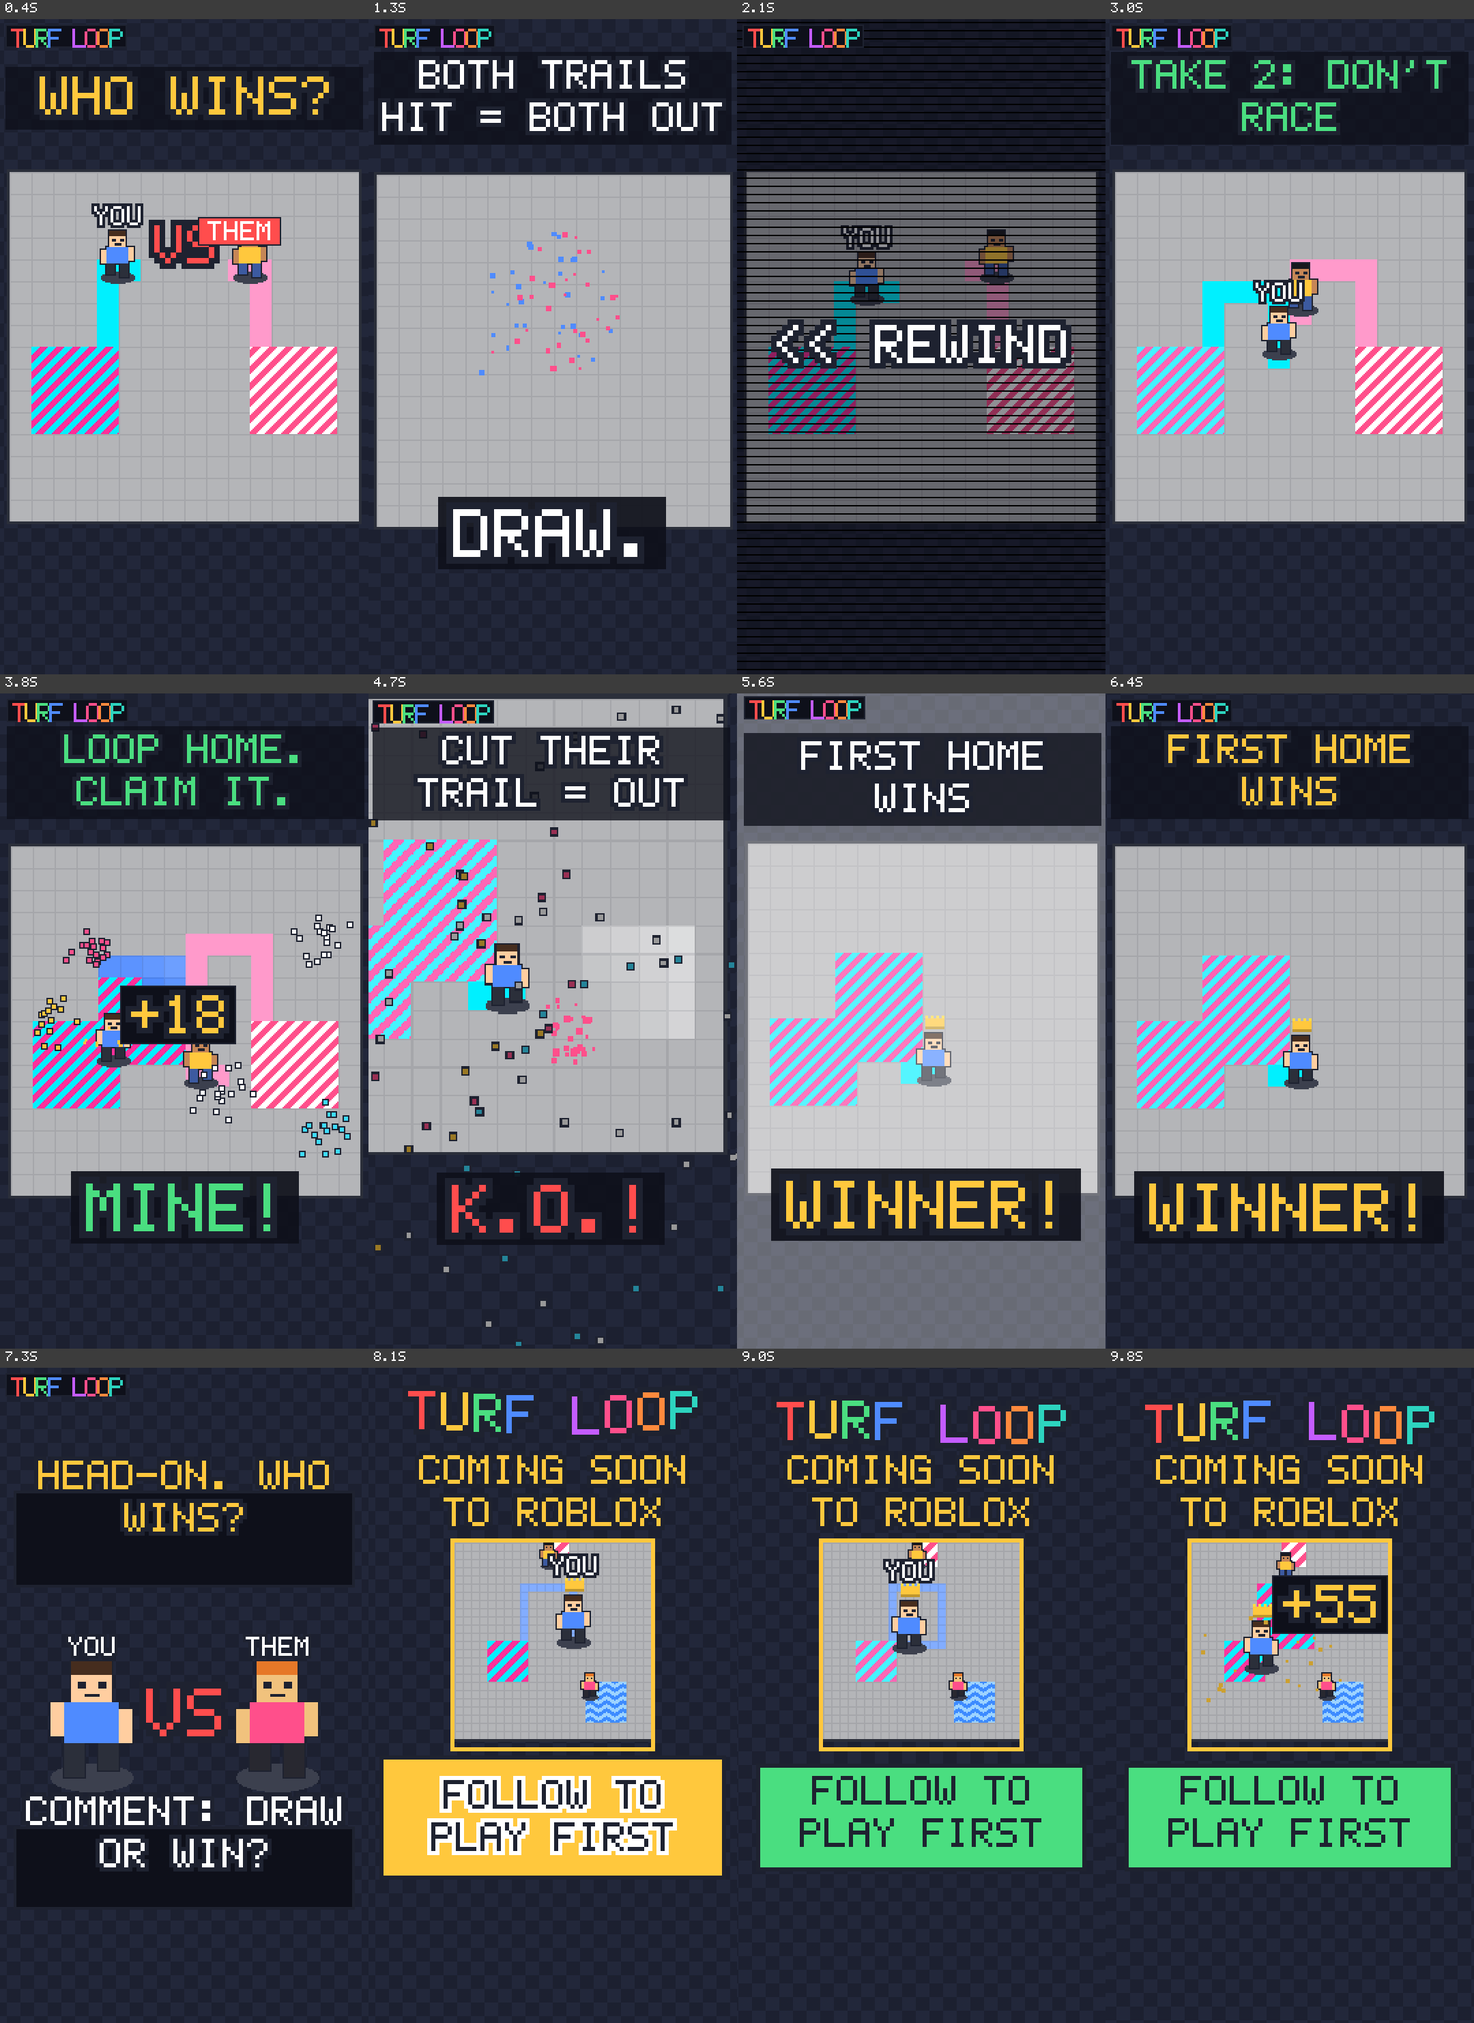
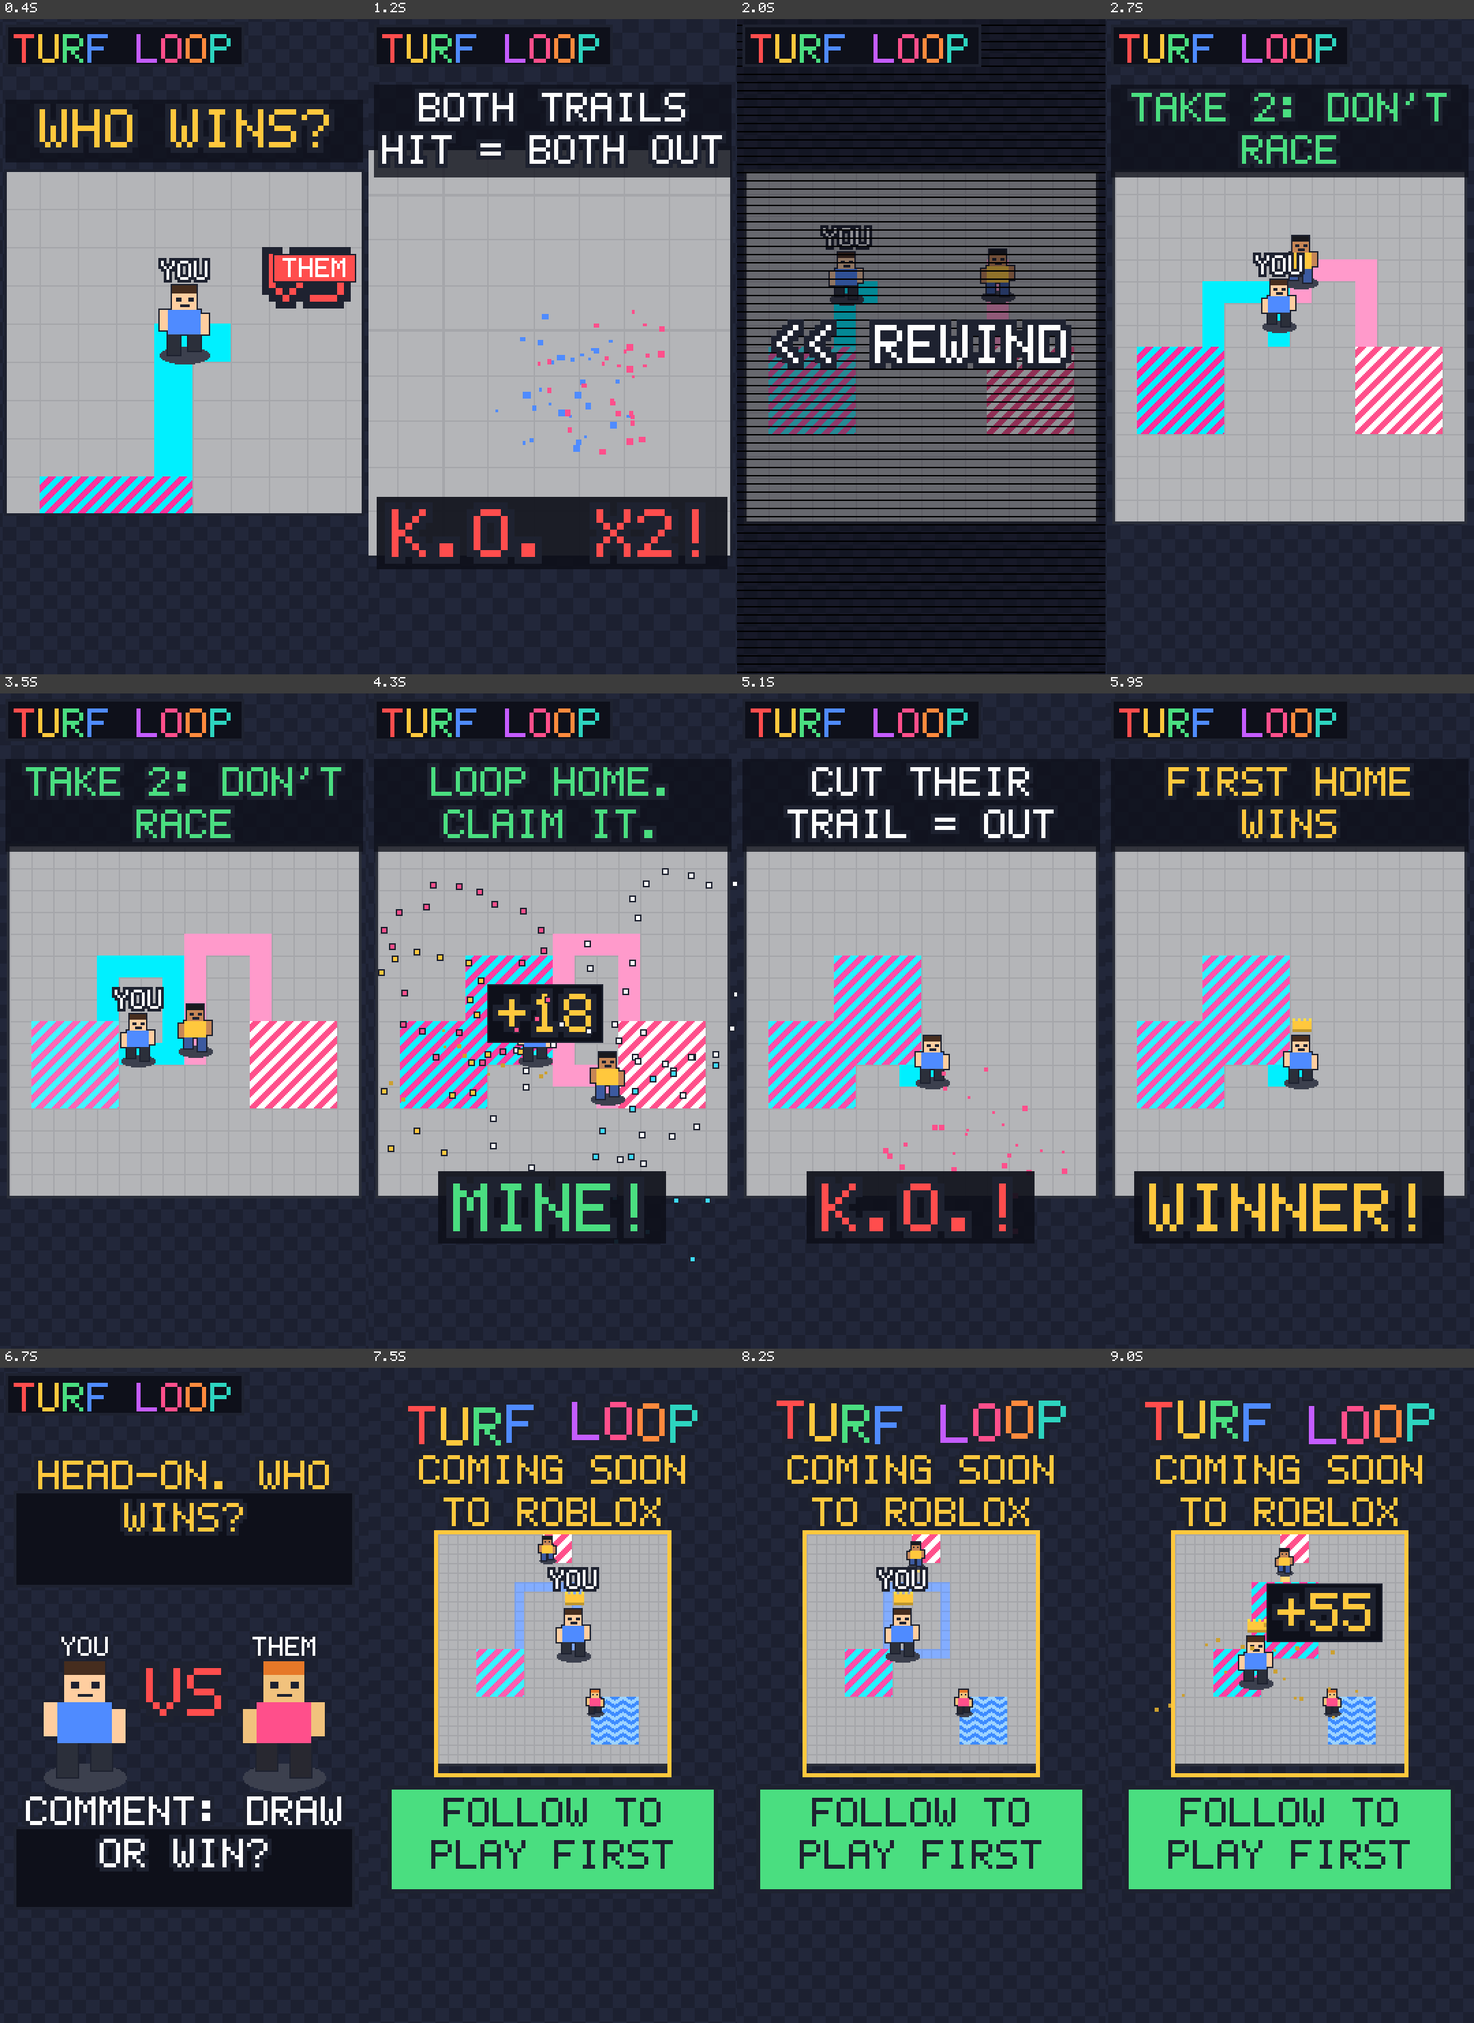
Turf Loop shorts: s04 parked, s05/s06 reworked, shared brand tag and captions

diff --git a/tools/video/hype.py b/tools/video/hype.py
@@ -28,6 +28,15 @@ TRAILS = [("RAINBOW STREAK", "#FF4D4D", "#4F8BFF", "stripes"), ("STARDUST", "#FF
 EFFECTS = [("FIREWORKS", "#FF4F8B", "#FFC83D"), ("BUBBLES", "#7CC4FF", "#FFFFFF"),
            ("LIGHTNING", "#FFE88A", "#4F8BFF"), ("HEARTS", "#FF4F8B", "#FFB8E0")]
 T = 12  # pattern tile size in canvas pixels
+_caption = Video.caption
+
+
+def _caption_low(self, b0, b1, text, y=58, **k):
+    """graders: captions sit in the top platform UI zone; push them down about 100 px at 1080 wide."""
+    return _caption(self, b0, b1, text, y=y + 24, **k)
+
+
+Video.caption = _caption_low
 
 
 def tile(a, b, pattern):
@@ -625,14 +634,14 @@ def sk(name_list, name):
 
 
 def brand_tag(v, b0, b1):
-    """Corner TURF LOOP tag from frame 0 (graders: brand missing until the end card)."""
+    """Corner TURF LOOP tag from frame 0, 2x size (round 7: graders said it was tiny)."""
     def fn(img, t):
         d = ImageDraw.Draw(img)
-        d.rectangle((4, 4, 92, 20), fill=(14, 16, 26), outline=DARK)
+        d.rectangle((4, 4, 4 + 9 * 18 + 12, 34), fill=(14, 16, 26), outline=DARK, width=2)
         cols = [PLAYERS[j] for j in (0, 2, 4, 7, 0, 9, 11, 1, 5)]
         for i, ch in enumerate("TURF LOOP"):
-            tim = text_img(ch, 2, cols[i], None)
-            img.paste(tim, (8 + i * 9, 7), tim)
+            tim = text_img(ch, 3, cols[i], None)
+            img.paste(tim, (10 + i * 18, 11), tim)
 
     v.overlay(b0, b1, fn)
 
@@ -643,7 +652,7 @@ def avatar_end(v, b0, b1, skin=("#FF2E9A", "#00F0FF", "stripes", "pulse"), line=
     brand_tag(v, 0, b0)
     dt = v.spb / 3
     ar = demo24(dt)
-    CP6, X6, Y6 = 6, 63, 128
+    CP6, X6, Y6 = 7, 51, 122
     skins = {1: skin_of(skin), 2: sk(RARES, "CANDY STRIPE"), 3: sk(RARES, "OCEAN WAVES")}
     mm = match_scene(v, ar, X6, Y6, CP6, skins, None, hero=1, sim=lambda tl: tl + 20 * dt, scale=1, hero_scale=2, kozoom=False,
                      kings=lambda tg: (1,))
@@ -657,8 +666,8 @@ def avatar_end(v, b0, b1, skin=("#FF2E9A", "#00F0FF", "stripes", "pulse"), line=
         ph = (tl / v.spb) % 1.0
         on = ph < 0.2  # pulse on every beat: button grows and the text flashes white
         g = 6 if on else 0
-        ImageDraw.Draw(img).rectangle((14 - g, 290 - g, W - 15 + g, 368 + g), fill=YELLOW if on else GREEN, outline=DARK, width=3)
-        draw_lines(img, line, 330, 3, DARK, WHITE if on else None, max_chars=12)
+        ImageDraw.Draw(img).rectangle((14 - g, 306 - g, W - 15 + g, 384 + g), fill=YELLOW if on else GREEN, outline=DARK, width=3)
+        draw_lines(img, line, 346, 3, DARK, WHITE if on else None, max_chars=12)
 
     v.scene(b0, b1, fn, "end card: logo, COMING SOON TO ROBLOX, live looping mini-match, pulsing FOLLOW TO PLAY FIRST")
     v.sound(b0, "hit")
@@ -1065,7 +1074,7 @@ def s04():
                 d_ = ImageDraw.Draw(img)
                 d_.line((gx - 22, gy - 40, gx + 22, gy + 4), fill=RED, width=6)  # explicit X: you're out
                 d_.line((gx + 22, gy - 40, gx - 22, gy + 4), fill=RED, width=6)
-        if tg >= v.b(0.5):  # R4: plate before the K.O.
+        if v.b(0.5) <= tg < v.b(ko_b):  # R6: plate only before the K.O. (it collided with SO CLOSE and the ghost)
             ImageDraw.Draw(img).rectangle((20, 124, W - 21, 146), fill=(14, 16, 26), outline=RED, width=2)
             draw_text(img, "TRAIL HIT = OUT", W / 2, 128, 2, RED, WHITE if ghost else None)
         if tg < v.b(ko_b):  # pulsing bracket on the one home cell you still need
@@ -1157,10 +1166,10 @@ def s04():
         ImageDraw.Draw(img).rectangle((10, 326, W - 11, 374), fill=(14, 16, 26), outline=DARK, width=2)
         draw_lines(img, "HOW MANY CELLS?", 332, 3, WHITE)
 
-    v.scene(B, B + 2, bait, "comment bait: WHAT'S YOUR CLOSEST CALL? a home pad, a 1-cell gap with your avatar, COMMENT HOW MANY CELLS")
+    v.scene(B, B + 1.5, bait, "comment bait: WHAT'S YOUR CLOSEST CALL? a home pad, a 1-cell gap with your avatar, COMMENT HOW MANY CELLS")
     v.sound(B, "hit")
-    avatar_end(v, B + 2, B + 6, skin=sk(LEGENDS, "MAGMA SURGE"))
-    v.dur = v.b(B + 6)
+    avatar_end(v, B + 1.5, B + 5.5, skin=sk(LEGENDS, "MAGMA SURGE"))
+    v.dur = v.b(B + 5.5)
     return v
 
 
@@ -1202,7 +1211,8 @@ def s05():
     dt1 = v.spb / 2
     a1 = take(False, dt1)
     ko1 = 1.5  # beats: 3 steps after frame 1
-    c1 = match_scene(v, a1, X0, Y0, CP, skins, trails, hero=1, sim=lambda tl: tl + 4 * dt1, scale=2, hero_scale=2)
+    ZC = 28
+    c1 = match_scene(v, a1, 5, Y0, ZC, skins, trails, hero=1, sim=lambda tl: tl + 4 * dt1, view=(260, 250), scale=3, hero_scale=3)
 
     def hook(img, tl, tg):
         c1(img, tl, tg)
@@ -1210,18 +1220,18 @@ def s05():
         if tg < v.b(ko1):
             b = tg / v.spb
             if int(b * 4) % 2 == 0:  # pulsing VS between the two trails
-                draw_text(img, "VS", sx + 8 * CP, sy + 2.2 * CP, 4, RED, DARK)
+                draw_text(img, "VS", sx + 8 * ZC, sy + 2.0 * ZC, 5, RED, DARK)
             r = a1.runners[2]
             if r.alive:
-                x = min(W - 40, max(40, sx + (r.x + 0.5) * CP))
-                ImageDraw.Draw(img).rectangle((x - 30, sy + (r.y - 1.7) * CP - 3, x + 30, sy + (r.y - 1.7) * CP + 17), fill=RED, outline=DARK)
-                draw_text(img, "THEM", x, sy + (r.y - 1.7) * CP, 2, WHITE, None)
+                x = min(W - 40, max(40, sx + (r.x + 0.5) * ZC))
+                ImageDraw.Draw(img).rectangle((x - 30, sy + (r.y - 1.7) * ZC - 3, x + 30, sy + (r.y - 1.7) * ZC + 17), fill=RED, outline=DARK)
+                draw_text(img, "THEM", x, sy + (r.y - 1.7) * ZC, 2, WHITE, None)
 
     v.scene(0, 3.5, hook, "HOOK: 16x16 board, your avatar (Neon Pulse, YOU) and a rival (Candy Stripe, THEM) both have 4 trail cells and run straight "
             "at each other along one row; their heads meet on the same step: both K.O. (freeze + zoom) and both turfs vanish")
     v.sound(0, "hit")
     v.caption(0, ko1, "WHO WINS?", y=58, size=4, color=YELLOW)
-    v.stamp(ko1, "DRAW.", WHITE, y=372, beats=2, sound="fail")
+    v.stamp(ko1, "K.O. x2!", RED, y=372, size=6, beats=2, sound="fail")
     v.caption(ko1, 3.5, "BOTH TRAILS HIT = BOTH OUT", color=WHITE)
 
     # ---------- take 2: don't race, loop home first ----------
@@ -1242,7 +1252,7 @@ def s05():
         t2(img, tl, tg)
         efx.draw(img, tg)
 
-    v.scene(W2, W2 + 8.5, take2, "take 2 after a REWIND: same board, you skip the race and loop home first (claim +N, Fireworks), then cut the "
+    v.scene(W2, W2 + 7.7, take2, "take 2 after a REWIND: same board, you skip the race and loop home first (claim +N, Fireworks), then cut the "
             "rival's trail (K.O.), crowned")
     rewind(v, W2, W2 + 1)
     v.flash(W2 + 1)
@@ -1252,11 +1262,11 @@ def s05():
     v.caption(W2 + 3, W2 + 4.67, "LOOP HOME. CLAIM IT.", color=GREEN)
     v.stamp(W2 + 4.67, "K.O.!", RED, y=372, beats=1.8)
     v.caption(W2 + 4.67, W2 + 6.5, "CUT THEIR TRAIL = OUT", color=WHITE)
-    v.stamp(W2 + 6.5, "WINNER!", YELLOW, y=372, beats=2, sound="crown")
-    v.caption(W2 + 6.5, W2 + 8.5, "FIRST HOME WINS", color=YELLOW)
+    v.stamp(W2 + 6.5, "WINNER!", YELLOW, y=372, beats=1.2, sound="crown")
+    v.caption(W2 + 6.5, W2 + 7.7, "FIRST HOME WINS", color=YELLOW)
 
     # ---------- bait + end ----------
-    B = W2 + 8.5
+    B = W2 + 7.7
 
     def bait(img, tl, tg):
         bg_checker(img, tg, speed=20)
@@ -1265,14 +1275,14 @@ def s05():
         sh = 5 if int(tl / v.spb * 2) % 2 == 0 else 0
         avatar(img, 62 + sh, 300, OUTFITS[1], tg, moving=True, s=5, label="YOU")
         avatar(img, 208 - sh, 300, OUTFITS[3], tg + 0.05, moving=True, s=5, label="THEM")
-        draw_text(img, "VS", W / 2, 230, 5, RED, DARK)
+        draw_text(img, "VS", W / 2, 215, 5, RED, DARK)
         ImageDraw.Draw(img).rectangle((10, 336, W - 11, 396), fill=(14, 16, 26), outline=DARK, width=2)
         draw_lines(img, "COMMENT: DRAW OR WIN?", 342, 3, WHITE)
 
-    v.scene(B, B + 2.5, bait, "comment bait: YOU vs THEM avatars bobbing toward each other, 'HEAD-ON. WHO WINS?', 'COMMENT: DRAW OR WIN?'")
+    v.scene(B, B + 1.8, bait, "comment bait: YOU vs THEM avatars bobbing toward each other, 'HEAD-ON. WHO WINS?', 'COMMENT: DRAW OR WIN?'")
     v.sound(B, "hit")
-    avatar_end(v, B + 2.5, B + 6.5, skin=sk(LEGENDS, "NEON PULSE"))
-    v.dur = v.b(B + 6.5)
+    avatar_end(v, B + 1.8, B + 5.8, skin=sk(LEGENDS, "NEON PULSE"))
+    v.dur = v.b(B + 5.8)
     return v
 
 
@@ -1281,10 +1291,10 @@ def s05():
 def s06():
     v = Video("s06_color_battle", 108, 22, music=dict(mode="major", root=62, seed=310, prog=[0, 4, 5, 3], sections=[
         (0, 20, {"kick", "snare", "hat", "bass", "arp", "lead"}), (20, 22, {"kick", "snare", "hat", "bass", "lead"})]))
-    CP, X0, Y0, N = 10, 15, 104, 24
+    CP, X0, Y0, N = 22, 5, 104, 24
     names = [("RED", 0), ("YELLOW", 2), ("GREEN", 4), ("BLUE", 7), ("PURPLE", 8), ("PINK", 11)]
     dt = v.spb / 3
-    PRE, END = 30 * dt, 30 * dt + v.b(10)
+    PRE, END = 24 * dt, 24 * dt + v.b(7)
 
     def make():
         ar = Arena(N, seed=17)
@@ -1307,7 +1317,7 @@ def s06():
     def leader(tg):
         return (max(range(6), key=lambda i: ar.share(i + 1)) + 1,)
 
-    mm = match_scene(v, ar, X0, Y0, CP, skins, None, hero=0, sim=lambda tl: tl + PRE, scale=1, hero_scale=1, kozoom=False, kings=leader)
+    mm = match_scene(v, ar, X0, Y0, CP, skins, None, hero=win + 1, sim=lambda tl: tl + PRE, view=(260, 236), scale=2, hero_scale=2, kozoom=False, kings=leader)
 
     def game(img, tl, tg):
         mm(img, tl, tg)
@@ -1323,14 +1333,14 @@ def s06():
         d.rectangle((6, 349, W - 7, 365), fill=(14, 16, 26))
         draw_text(img, "LIVE TURF %", W / 2, 352, 2, YELLOW, None)
 
-    v.scene(0, 10, game, "6 colored avatars race on a 24x24 board (preroll so turf already exists), live sorted bar chart of turf %, crown on the leader")
+    v.scene(0, 7, game, "6 colored avatars race on a 24x24 board (preroll so turf already exists), live sorted bar chart of turf %, crown on the leader")
     v.sound(0, "hit")
-    v.caption(0, 3, "PICK YOUR COLOR. GO.", y=58, size=3, color=YELLOW)
-    v.caption(3, 8, "WHO TAKES THE MAP?", y=58, size=3, color=WHITE)
-    v.caption(8, 10, "CROWN = THE LEADER", y=58, size=3, color=GOLD)
-    v.stamp(10, "%s WINS!" % wname, PLAYERS[wci], y=372, beats=1, sound="crown")
+    v.caption(0, 2, "6 PLAYERS. 1 MAP.", y=58, size=3, color=YELLOW)
+    v.caption(2, 5, "WHO TAKES IT ALL?", y=58, size=3, color=WHITE)
+    v.caption(5, 7, "CROWN = LEADER", y=58, size=3, color=GOLD)
+    v.stamp(6, "%s WINS!" % wname, PLAYERS[wci], y=372, beats=1, sound="crown")
 
-    B = 10
+    B = 7
 
     def reveal(img, tl, tg):
         bg_checker(img, tg, speed=20)
@@ -1341,12 +1351,12 @@ def s06():
             ImageDraw.Draw(img).rectangle((x, 282, x + 34, 314), fill=PLAYERS[ci], outline=DARK, width=2)
             draw_text(img, nm[:2] if nm == "PINK" else nm[0], x + 17, 292, 2, DARK, None)
         ImageDraw.Draw(img).rectangle((10, 340, W - 11, 392), fill=(14, 16, 26), outline=DARK, width=2)
-        draw_lines(img, "COMMENT YOUR COLOR", 348, 3, WHITE)
+        draw_lines(img, "COMMENT YOUR COLOR", 348, 4, WHITE)
 
-    v.scene(B, B + 4, reveal, "winner reveal: crowned avatar, the 6 color tiles, COMMENT YOUR COLOR")
+    v.scene(B, B + 2.5, reveal, "winner reveal: crowned avatar, the 6 color tiles, COMMENT YOUR COLOR")
     v.sound(B, "hit")
-    avatar_end(v, B + 4, B + 8, skin=("#7C5CFF", "#FFFFFF", "hex", "rainbow"))
-    v.dur = v.b(B + 8)
+    avatar_end(v, B + 2.5, B + 6.5, skin=("#7C5CFF", "#FFFFFF", "hex", "rainbow"))
+    v.dur = v.b(B + 6.5)
     return v
 
 

diff --git a/marketing/videos/GRADES.md b/marketing/videos/GRADES.md
@@ -380,3 +380,19 @@ Next fixes:
 **s06 (R1, 5):** 1) Hook "PICK YOUR COLOR. GO." is vague on a busy tiny board with no obvious YOU: freeze on the 6 tiles first or add "YOU = BLUE", stake line "6 PLAYERS. 1 MAP. 10 SECONDS." 2) Avatars about 12 px: crop to about 60% of the board following one actor, thicker trails, a hero capture with +N% at 2-3 s and one visible elimination by 4 s. 3) 1.7-5.5 s is near static; cut preroll to about 3 s, event every 0.5 s; lone white-square glitch at 2.15 s; bigger labeled bars. 4) Winner reveal late (5.6 s): move to about 4 s, 1.5 s long, and make the avatar match the winner color; bigger COMMENT line. 5) End card cluttered and corner tag tiny: enlarge the tag about 2x, make FOLLOW the biggest element.
 
 **Shared next run:** make `brand_tag` about 2x bigger; captions down about 100 px out of the top UI zone; enlarge the end-card mini-match; and a follow-camera crop for multi-bot scenes. Then continue s04, s05, s06 (s02 and s03 parked), then idea #11.
+
+## Run 2026-11-21 00:55 (weekend task): s04 R6, s05 R3, s06 R2 reworked. No new video this run.
+**Applied (shared, `tools/video/hype.py`):** corner TURF LOOP tag 2x; every caption pushed down about 100 px at 1080 wide (monkey-patched `Video.caption` in hype.py only); end-card mini-match 7 px cells (about 170 px) with the CTA moved lower. s04: TRAIL HIT = OUT plate only before the K.O., bait cut to 1.5 beats. s05: hook zoomed with a 28 px follow camera, "K.O. x2!" stamp, WINNER beat 1.2 beats, bait 1.8 beats. s06: 22 px follow camera on the winner, preroll shorter, game 7 beats, stake caption "6 PLAYERS. 1 MAP.", winner stamp moved to beat 6, reveal 2.5 beats.
+
+| Video | R | Overall | hook | clarity | style | pacing | readability | cta |
+|---|---|---|---|---|---|---|---|---|
+| s04 | R6 | 6 | 7 | 6 | 7 | 6 | 6 | 6 |
+| s06 | R2 | 5 | 5 | 4 | 7 | 5 | 5 | 6 |
+
+**s04 (PARKED after 6 rounds, all 6):** hook 7 every recent round; clarity and the revenge beat keep it at 6. If reopened: drop "WE'VE ALL BEEN HERE." until 1.5 s, cut the red banner for the first beat and tag the orange turf "HOME", shrink and offset +35 with far fewer particles, lighter rewind scanlines, "CUT = OUT" caption, merge the comment bait into the end card ("COMMENT YOUR CLOSEST CALL").
+**s06 (R2, 5):** 1) The core mechanic is never shown: add one clean loop-and-claim on YOU at 0.3-1.5 s and one visible elimination with "CUT!" at about 2.3 s (the +88 lands on a pre-existing blob). 2) The hook line is generic: use a stake line ("1 LOOP = 88% OF THE MAP") and open on a rival next to your trail. 3) The winner stamp collides with the LIVE TURF % bars: centre it on the board or hide the chart for 0.3 s; shorten the caption to one line. 4) Reveal is 1.4 s of near-identical frames and the tile row touches "COMMENT YOUR COLOR": cut to about 0.8 s, space 20 px. Pick one of COMMENT or FOLLOW. 5) End-card logo is clipped at the top while it slams in.
+| s05 | R3 | 6 | 6 | 6 | 7 | 6 | 6 | 7 |
+
+**s05 (R3, 6):** 1) Hook board still reads small and grey: thicker brighter trails, avatars running at each other from frame 1. 2) Show 3-4 frames of the two heads touching (flash and freeze) before "K.O. x2!"; keep ghosted avatars instead of clearing the board. 3) Take-2 setup is 1 s of little action: cut to about 0.6 s and claim by about 3.0 s. 4) Captions and CTA sit in platform UI zones; thicker outline on the corner tag; the bait card has a big empty box. 5) Merge the bait into the end card ("COMMENT: DRAW OR WIN?") and drop the separate slide.
+
+**Next run priorities:** s05 (3 rounds) and s06 (2 rounds); s02, s03, s04 parked. Then build idea #11. Shared: a "hold the contact frame" freeze helper for head-on and cut scenes, and bait merged into `avatar_end`.

diff --git a/docs/PROGRESS.md b/docs/PROGRESS.md
@@ -458,3 +458,8 @@ Reworked s04 (hook geometry, ghost, music sections), s03 (hook, track, comment c
 
 ## 2026-11-20 (weekend video run): s03/s04/s05 reworked, s06 built
 Shared hype.py: corner brand tag from frame 0, live mini-match behind every end card. s05, s04, s03 reworked and s06 (Color Battle Royale) added; all graded 5-6 (s03 parked after 6 rounds). Fix lists in marketing/videos/GRADES.md. Nothing posted or uploaded; game code untouched.
+
+## 2026-11-21 weekend task: turf shorts (s04 R6, s05 R3, s06 R2)
+- Shared hype.py: 2x corner brand tag, captions lowered about 100 px, bigger end-card mini-match, CTA lower.
+- s04 graded 6 and parked after 6 rounds. s05 graded 6. s06 graded 5 (mechanic never shown, stamp collides with chart).
+- Videos render to git-ignored out/. No posting. Fix lists in marketing/videos/GRADES.md.
